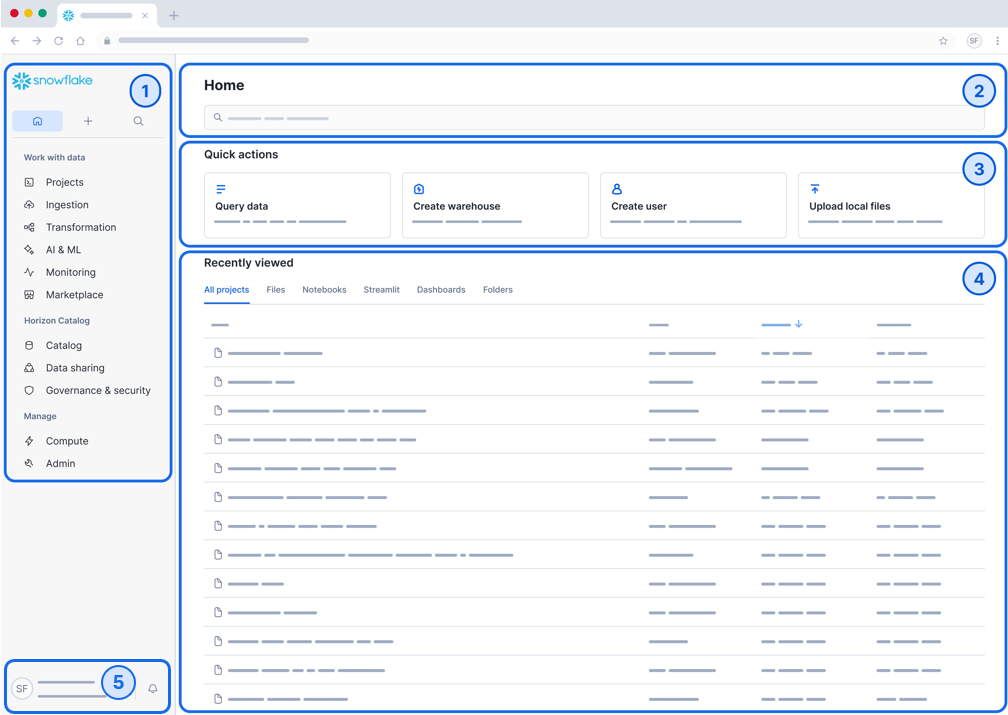
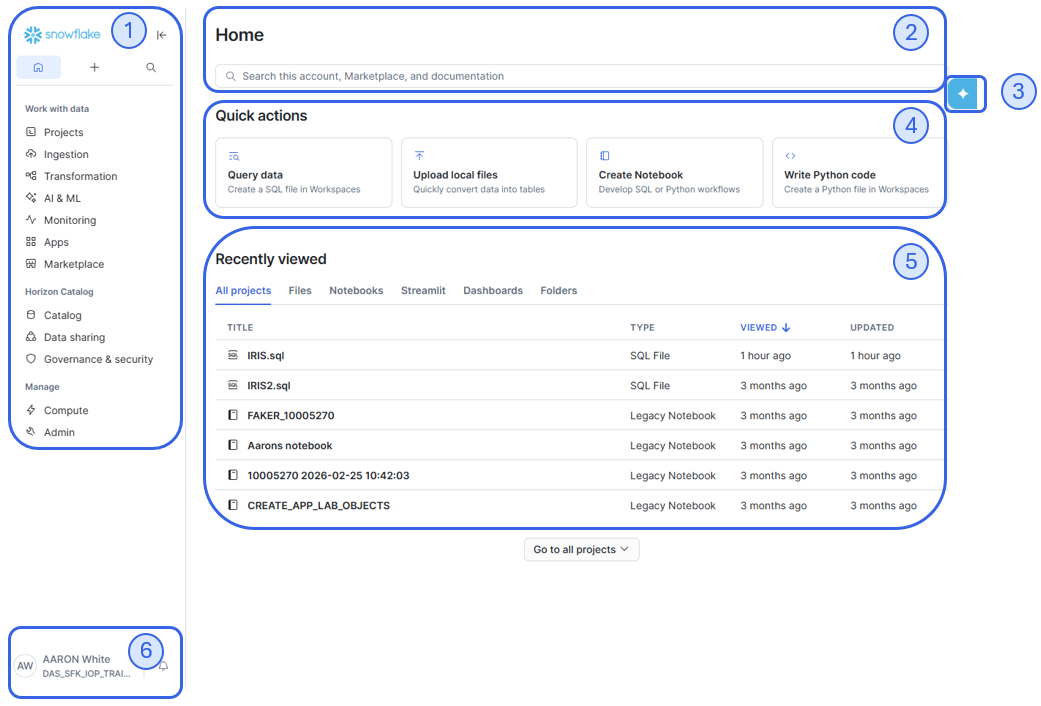
Updated screenshots to reflect new layouts

diff --git a/docs/workspaces.md b/docs/workspaces.md
@@ -9,14 +9,12 @@ has_toc: true
 
 Workspaces provides a unified editor for creating, organizing, and managing code across multiple file types that you can use to analyze data, develop models, and build pipelines.  A workspace is private to you and offers a development environment where you can build, experiment, and test your work. 
 
-It is made up of 6 areas:
+It is made up of 4 areas:
 
-1. [My Workspace](#1-workspaces)
-2. [Worksheets](#2-worksheets)
-3. [Database Explorer](#3-database-explorer)
-4. [Editor](#4-editor)
-5. [Results Panel](#5-results-panel)
-6. [Query History](#6-query-history)
+1. [Workspaces / Databases](#1-workspaces--databases)
+2. [SQL Editor](#2-sql-editor)
+3. [Results Panel](#3-results-panel)
+4. [Query History](#4-query-history)
 
 ---
 
@@ -31,7 +29,7 @@ It is made up of 6 areas:
 
 ---
 
-## 1. Workspaces
+## 1. Workspaces / Databases
 
 - Central location for your files and folders.
 - Drag and drop files between folders.
@@ -39,22 +37,6 @@ It is made up of 6 areas:
 - Each user has a default workspace named `My Workspace`.
 - You can create additional workspaces using `+ Add New`.
 - The default workspace cannot be renamed or deleted.
-
----
-
-## 2. Worksheets
-
-- Open and edit worksheets you own or have permission to access.
-- Changes will not save if you only have view-only permissions.
-- Convert a worksheet into a workspace file by dragging it into a folder.
-- Workspace queries behave like worksheets with:
-  - Improved UI performance
-  - Ability to run two queries simultaneously from the same SQL file
-
----
-
-## 3. Database Explorer
-
 - Hierarchical view of all databases and objects in your account.
 - Organized by database → schema → object type.
 - Use the filter to quickly locate objects.
@@ -66,7 +48,7 @@ It is made up of 6 areas:
 
 ---
 
-## 4. Editor
+## 2. SQL Editor
 
 - Write and format SQL queries.
 - Split panes to work on multiple files side-by-side.
@@ -74,7 +56,7 @@ It is made up of 6 areas:
 
 ---
 
-## 5. Results Panel
+## 3. Results Panel
 
 - View query results directly below the editor.
 - Split results side-by-side.
@@ -82,7 +64,7 @@ It is made up of 6 areas:
 
 ---
 
-## 6. Query History
+## 4. Query History
 
 - View all queries you have executed.
 - `Current File` shows history for the active file only.

diff --git a/docs/snowpark_notebook.md b/docs/snowpark_notebook.md
@@ -33,15 +33,15 @@ All within the same interface.
 ## Step 1 – Navigate to Notebooks
 
 1. Hover over **Projects** in the navigation menu.  
-2. Click **Notebooks**.
+2. Click **Legacy Notebooks**.
 
-The Notebooks home screen will display any notebooks you have access to.
+The Legacy Notebooks home screen will display any notebooks you have access to.
 
 ---
 
-## Step 2 – Create a New Notebook
+## Step 2 – Create a New Legacy Notebook
 
-1. Click **+ Notebook**.  
+1. Click **+ Legacy Notebook**.  
 2. Set the Notebook name to match your dataset using:
 
    `IRIS_<YOUR_SOUID>_NOTEBOOK`
